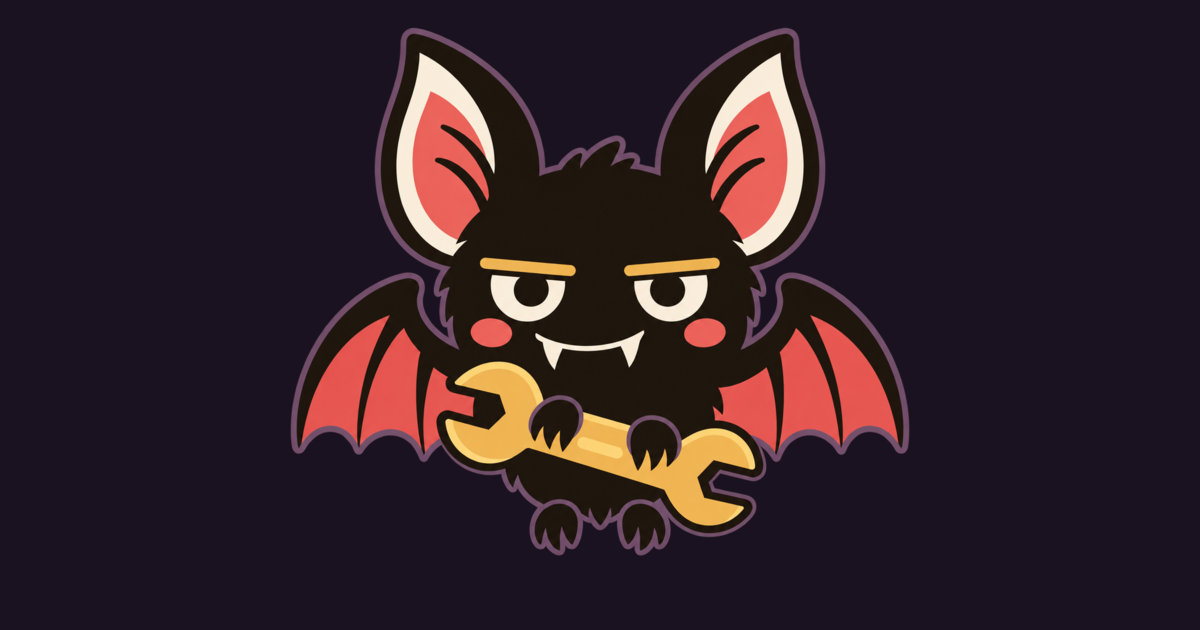
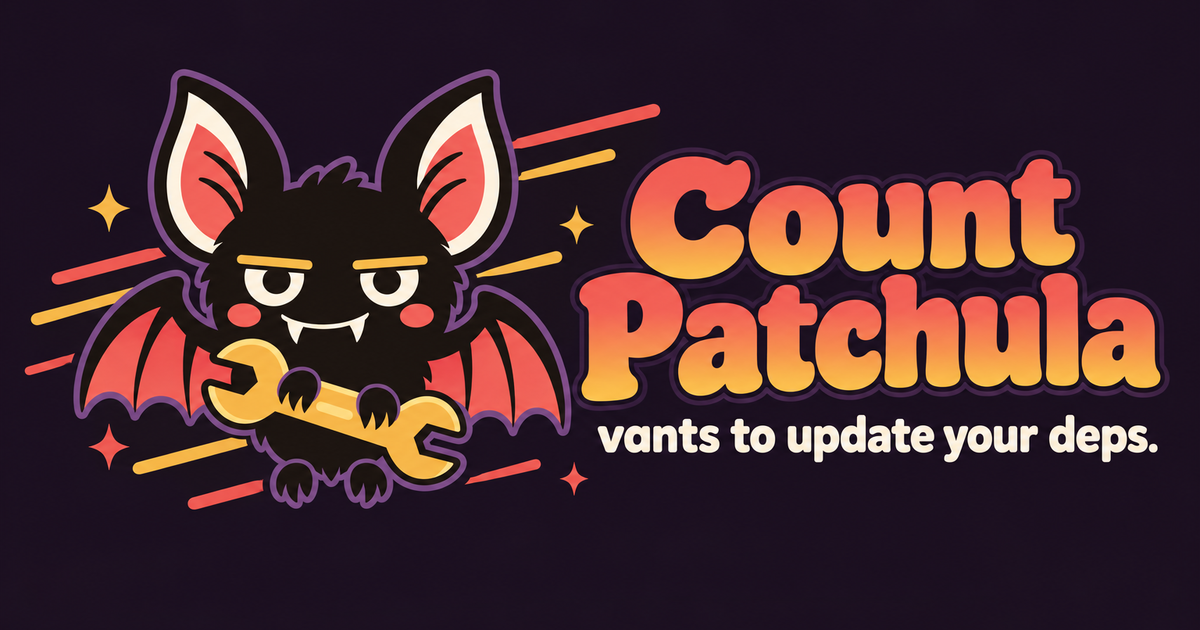
docs(site): a link preview card with the Count, his name and the tagline

diff --git a/docs/.vitepress/config.ts b/docs/.vitepress/config.ts
@@ -22,7 +22,7 @@ export default defineConfig({
     ["meta", { property: "og:image", content: `${site}/og.png` }],
     ["meta", { property: "og:image:width", content: "1200" }],
     ["meta", { property: "og:image:height", content: "630" }],
-    ["meta", { property: "og:image:alt", content: "Count Patchula, a bat holding a wrench" }],
+    ["meta", { property: "og:image:alt", content: "Count Patchula, a bat holding a wrench: vants to update your deps." }],
     ["meta", { name: "twitter:card", content: "summary_large_image" }],
     ["meta", { name: "twitter:image", content: `${site}/og.png` }],
   ],
